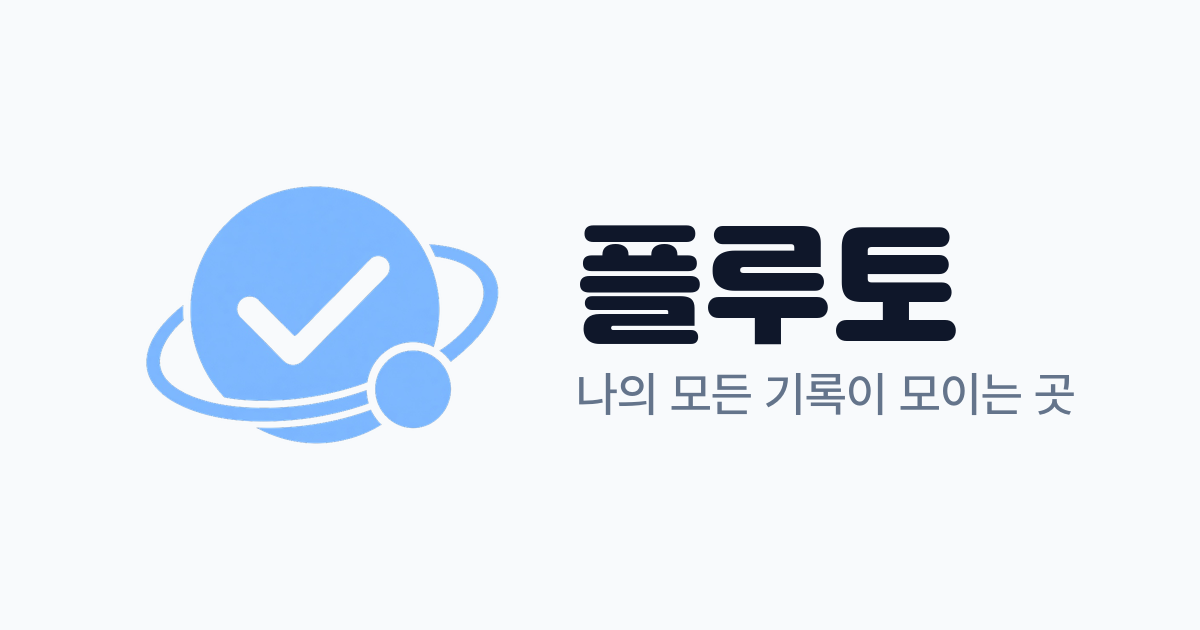
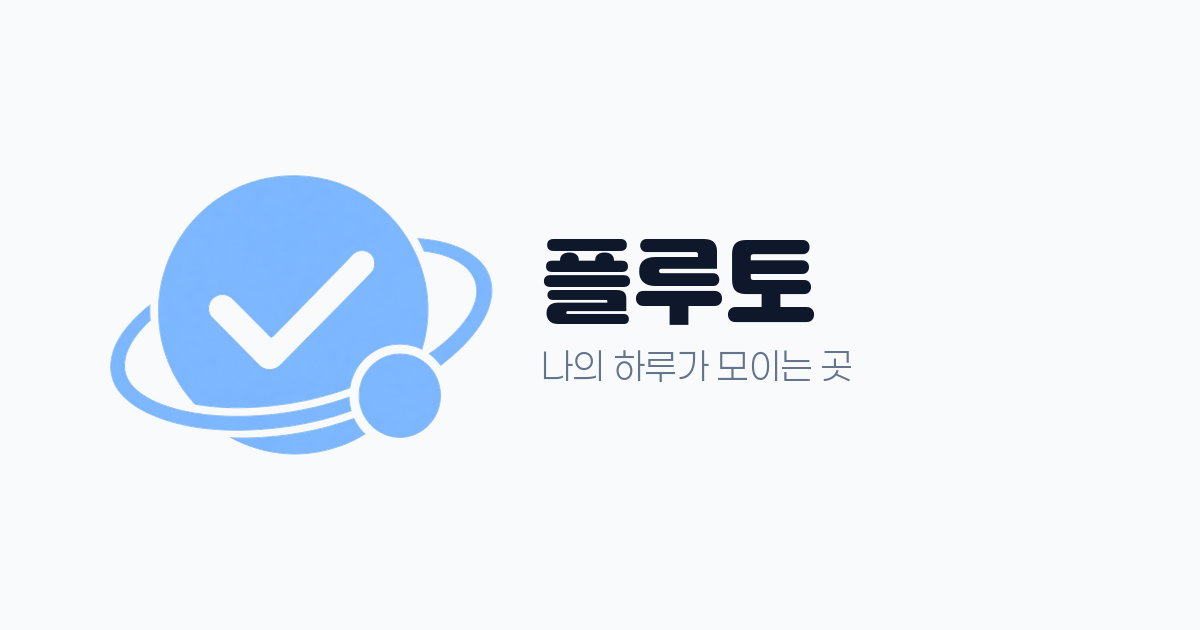
feat: 친구 아이디 제한과 웹 소개 문구를 변경

Changed region(s): [[0.0925, 0.2714, 0.8942, 0.7238], [0.3083, 0.3317, 0.3392, 0.3619]]

diff --git a/lib/presentation/screens/friends/friends_screen.dart b/lib/presentation/screens/friends/friends_screen.dart
@@ -175,7 +175,6 @@ class _AddFriendSheetState extends State<AddFriendSheet> {
           children: [
             TextField(
               controller: _code,
-              autofocus: true,
               maxLength: 32,
               inputFormatters: _codeFormatters,
               textInputAction: TextInputAction.send,
@@ -603,7 +602,17 @@ class _FriendsScreenState extends State<FriendsScreen> {
     unawaited(_saveMyCode());
   }
 
+  void _toastCodeCooldownIfLocked() {
+    final profile = _service.profile.value;
+    if (profile == null || profile.canChangeCode) return;
+    final days = profile.cooldownDays < 1 ? 1 : profile.cooldownDays;
+    _toast(AppStrings.friendsCodeCooldown(days));
+  }
+
   void _syncCode(FriendProfile? profile) {
+    if (profile != null && !profile.canChangeCode && _codeFocus.hasFocus) {
+      _codeFocus.unfocus();
+    }
     if (_codeFocus.hasFocus) return;
     final code = profile?.friendCode.trim() ?? '';
     if (_myCode.text == code) return;
@@ -843,34 +852,54 @@ class _FriendsScreenState extends State<FriendsScreen> {
                           Row(
                             children: [
                               Expanded(
-                                child: TextField(
-                                  controller: _myCode,
-                                  focusNode: _codeFocus,
-                                  maxLength: 32,
-                                  inputFormatters: _codeFormatters,
-                                  textInputAction: TextInputAction.done,
-                                  onSubmitted: (_) => _saveMyCode(),
-                                  style: TextStyle(
-                                    fontFamily: AppFonts.of(context),
-                                    fontSize: 16,
-                                    color: colors.text,
-                                  ),
-                                  decoration: InputDecoration(
-                                    hintText: AppStrings.friendsCodeEditHint,
-                                    hintStyle: TextStyle(
-                                      fontFamily: AppFonts.of(context),
-                                      color: colors.hint,
-                                    ),
-                                    border: InputBorder.none,
-                                    counterText: '',
-                                    isDense: true,
-                                    contentPadding: const EdgeInsets.fromLTRB(
-                                      0,
-                                      4,
-                                      0,
-                                      8,
-                                    ),
-                                  ),
+                                child: Builder(
+                                  builder: (context) {
+                                    final locked = profile != null &&
+                                        !profile.canChangeCode;
+                                    return GestureDetector(
+                                      behavior: HitTestBehavior.opaque,
+                                      onTap: locked
+                                          ? _toastCodeCooldownIfLocked
+                                          : null,
+                                      child: AbsorbPointer(
+                                        absorbing: locked,
+                                        child: TextField(
+                                          controller: _myCode,
+                                          focusNode: _codeFocus,
+                                          readOnly: locked,
+                                          canRequestFocus: !locked,
+                                          enableInteractiveSelection: !locked,
+                                          maxLength: 32,
+                                          inputFormatters: _codeFormatters,
+                                          textInputAction: TextInputAction.done,
+                                          onSubmitted: (_) => _saveMyCode(),
+                                          style: TextStyle(
+                                            fontFamily: AppFonts.of(context),
+                                            fontSize: 16,
+                                            color: colors.text,
+                                          ),
+                                          decoration: InputDecoration(
+                                            hintText:
+                                                AppStrings.friendsCodeEditHint,
+                                            hintStyle: TextStyle(
+                                              fontFamily: AppFonts.of(context),
+                                              color: colors.hint,
+                                            ),
+                                            border: InputBorder.none,
+                                            counterText: '',
+                                            isDense: true,
+                                            contentPadding:
+                                                const EdgeInsets.fromLTRB(
+                                              0,
+                                              4,
+                                              0,
+                                              8,
+                                            ),
+                                          ),
+                                        ),
+                                      ),
+                                    );
+                                  },
                                 ),
                               ),
                               PressBounce(
@@ -964,10 +993,16 @@ class _FriendsScreenState extends State<FriendsScreen> {
 
   Future<void> _saveMyCode() async {
     final code = _myCode.text.trim();
-    final current = _service.profile.value?.friendCode.trim() ?? '';
+    final profile = _service.profile.value;
+    final current = profile?.friendCode.trim() ?? '';
     if (_savingCode || code == current) return;
     if (code.isEmpty) {
       _myCode.text = current;
+      return;
+    }
+    if (profile != null && !profile.canChangeCode) {
+      _myCode.text = current;
+      _toastCodeCooldownIfLocked();
       return;
     }
     _savingCode = true;

diff --git a/web/index.html b/web/index.html
@@ -22,19 +22,19 @@
   <meta name="theme-color" content="#F8FAFC">
   <meta name="theme-color" content="#F8FAFC" media="(prefers-color-scheme: light)">
   <meta name="theme-color" content="#0B1220" media="(prefers-color-scheme: dark)">
-  <meta name="description" content="나의 모든 기록이 모이는 곳">
+  <meta name="description" content="나의 하루가 모이는 캘린더">
   <meta property="og:type" content="website">
   <meta property="og:site_name" content="플루토">
   <meta property="og:title" content="플루토">
-  <meta property="og:description" content="나의 모든 기록이 모이는 곳">
+  <meta property="og:description" content="나의 하루가 모이는 캘린더">
   <meta property="og:url" content="https://pluto.day/">
-  <meta property="og:image" content="https://pluto.day/og.png?v=3">
+  <meta property="og:image" content="https://pluto.day/og.png?v=5">
   <meta property="og:image:width" content="1200">
   <meta property="og:image:height" content="630">
   <meta name="twitter:card" content="summary_large_image">
   <meta name="twitter:title" content="플루토">
-  <meta name="twitter:description" content="나의 모든 기록이 모이는 곳">
-  <meta name="twitter:image" content="https://pluto.day/og.png?v=3">
+  <meta name="twitter:description" content="나의 하루가 모이는 캘린더">
+  <meta name="twitter:image" content="https://pluto.day/og.png?v=5">
 
   <!-- iOS meta tags & icons -->
   <meta name="mobile-web-app-capable" content="yes">
@@ -43,8 +43,8 @@
   <link rel="apple-touch-icon" href="icons/Icon-192.png">
 
   <!-- Favicon -->
-  <link rel="icon" type="image/svg+xml" href="favicon.svg?v=4"/>
-  <link rel="icon" type="image/png" sizes="64x64" href="favicon.png?v=4"/>
+  <link rel="icon" type="image/svg+xml" href="favicon.svg?v=5"/>
+  <link rel="icon" type="image/png" sizes="96x96" href="favicon.png?v=5"/>
 
   <title>플루토</title>
   <link rel="manifest" href="manifest.json">

diff --git a/web/about/index.html b/web/about/index.html
@@ -3,16 +3,16 @@
 <head>
   <meta charset="UTF-8">
   <meta name="viewport" content="width=device-width, initial-scale=1.0">
-  <title>플루토 · 나의 모든 기록이 모이는 곳</title>
+  <title>플루토 · 나의 하루가 모이는 곳</title>
   <meta name="description" content="플루토는 할 일, 일정, 일기, 가계부, 메모를 한곳에서 보는 캘린더입니다. 로그인 없이 기기에서 쓸 수 있고, 로그인하면 여러 기기에서 기록을 맞출 수 있습니다.">
   <meta property="og:type" content="website">
   <meta property="og:site_name" content="플루토">
   <meta property="og:title" content="플루토">
-  <meta property="og:description" content="나의 모든 기록이 모이는 곳">
+  <meta property="og:description" content="나의 하루가 모이는 캘린더">
   <meta property="og:url" content="https://pluto.day/about">
-  <meta property="og:image" content="https://pluto.day/og.png?v=3">
-  <link rel="icon" type="image/svg+xml" href="../favicon.svg?v=4">
-  <link rel="icon" type="image/png" sizes="64x64" href="../favicon.png?v=4">
+  <meta property="og:image" content="https://pluto.day/og.png?v=5">
+  <link rel="icon" type="image/svg+xml" href="../favicon.svg?v=5">
+  <link rel="icon" type="image/png" sizes="96x96" href="../favicon.png?v=5">
   <style>
     @font-face {
       font-family: Jalnan;
@@ -157,7 +157,7 @@
       </span>
     </header>
 
-    <h1>나의 모든 기록이<br>모이는 곳</h1>
+    <h1>나의 하루가<br>모이는 곳</h1>
     <p class="lead">할 일 · 일정 · 일기 · 가계부 · 메모를 한 캘린더에서</p>
     <p class="purpose">플루토는 하루의 할 일과 일정, 일기와 가계부, 메모를 한곳에서 보고 기록하는 캘린더 앱입니다. 로그인하지 않아도 이 페이지에서 앱이 무엇을 하는지 볼 수 있습니다. 앱을 열려면 아래에서 시작하면 됩니다.</p>
 

diff --git a/lib/data/datasources/friend_service.dart b/lib/data/datasources/friend_service.dart
@@ -478,6 +478,9 @@ class FriendService {
     });
     final next = FriendProfile.fromMap(data);
     profile.value = next;
+    _sessionUid = _uid;
+    _sessionProfile = next;
+    await _writeCachedProfile();
     return next;
   }
 
@@ -981,6 +984,20 @@ class FriendService {
     ];
   }
 
+  int _codeCooldownDays(Object error) {
+    final fromProfile = profile.value?.cooldownDays ?? 0;
+    if (fromProfile > 0) return fromProfile;
+    if (error is FirebaseFunctionsException) {
+      final details = error.details;
+      if (details is Map) {
+        final at = (details['nextChangeAt'] as num?)?.toInt() ?? 0;
+        final left = at - DateTime.now().millisecondsSinceEpoch;
+        if (left > 0) return (left / 86400000).ceil();
+      }
+    }
+    return 30;
+  }
+
   String messageOf(Object error) {
     final code = error is FriendException
         ? error.code
@@ -997,7 +1014,7 @@ class FriendService {
       'bad-name' => AppStrings.friendsNameBad,
       'bad-photo' => AppStrings.friendsPhotoTooBig,
       'needs-code' => AppStrings.friendsCodeNeed,
-      'code-cooldown' => AppStrings.friendsCodeCooldown(30),
+      'code-cooldown' => AppStrings.friendsCodeCooldown(_codeCooldownDays(error)),
       'rate-limited' || 'resource-exhausted' => AppStrings.friendsRateLimited,
       'unauthenticated' || 'login-required' => AppStrings.friendsNeedLogin,
       _ => AppStrings.friendsFailed,

diff --git a/functions/friends.js b/functions/friends.js
@@ -20,6 +20,8 @@ function requireUid(request) {
   return uid;
 }
 
+const CODE_COOLDOWN_MS = 30 * 24 * 60 * 60 * 1000;
+
 const RESERVED_CODES = new Set([
   "pluto",
   "플루토",
@@ -141,7 +143,7 @@ function toClientProfile(uid, data, displayName) {
     suggestedCode: suggestCode(name),
     needsCode: !usable,
     codeChangedAt: changedAt,
-    nextChangeAt: 0,
+    nextChangeAt: usable && changedAt ? changedAt + CODE_COOLDOWN_MS : 0,
     photoURL: String(data.photoURL || ""),
   };
 }
@@ -200,6 +202,14 @@ async function claimFriendCode(uid, rawCode, hint) {
   if (hadUsable && current === code) {
     return toClientProfile(uid, data, displayName);
   }
+  if (hadUsable) {
+    const changedAt = Number(data.friendCodeChangedAt) || 0;
+    if (changedAt && now < changedAt + CODE_COOLDOWN_MS) {
+      throw new HttpsError("failed-precondition", "code-cooldown", {
+        nextChangeAt: changedAt + CODE_COOLDOWN_MS,
+      });
+    }
+  }
   await db().runTransaction(async (tx) => {
     const taken = await tx.get(db().collection("friend_codes").doc(code));
     if (taken.exists && taken.data()?.uid !== uid) {
@@ -217,6 +227,7 @@ async function claimFriendCode(uid, rawCode, hint) {
     }
   });
   return toClientProfile(uid, {
+    ...data,
     friendCode: code,
     friendCodeChangedAt: now,
   }, displayName);

diff --git a/web/privacy/index.html b/web/privacy/index.html
@@ -10,9 +10,9 @@
   <meta property="og:title" content="개인정보처리방침 · 플루토">
   <meta property="og:description" content="플루토가 개인정보를 어떻게 다루는지 알려 드립니다.">
   <meta property="og:url" content="https://pluto.day/privacy">
-  <meta property="og:image" content="https://pluto.day/og.png?v=3">
-  <link rel="icon" type="image/svg+xml" href="../favicon.svg?v=4">
-  <link rel="icon" type="image/png" sizes="64x64" href="../favicon.png?v=4">
+  <meta property="og:image" content="https://pluto.day/og.png?v=5">
+  <link rel="icon" type="image/svg+xml" href="../favicon.svg?v=5">
+  <link rel="icon" type="image/png" sizes="96x96" href="../favicon.png?v=5">
   <style>
     @font-face {
       font-family: Jalnan;

diff --git a/web/terms/index.html b/web/terms/index.html
@@ -10,9 +10,9 @@
   <meta property="og:title" content="이용약관 · 플루토">
   <meta property="og:description" content="플루토 앱과 웹을 이용할 때 적용되는 약관입니다.">
   <meta property="og:url" content="https://pluto.day/terms">
-  <meta property="og:image" content="https://pluto.day/og.png?v=3">
-  <link rel="icon" type="image/svg+xml" href="../favicon.svg?v=4">
-  <link rel="icon" type="image/png" sizes="64x64" href="../favicon.png?v=4">
+  <meta property="og:image" content="https://pluto.day/og.png?v=5">
+  <link rel="icon" type="image/svg+xml" href="../favicon.svg?v=5">
+  <link rel="icon" type="image/png" sizes="96x96" href="../favicon.png?v=5">
   <style>
     @font-face {
       font-family: Jalnan;

diff --git a/lib/core/constants/app_strings.dart b/lib/core/constants/app_strings.dart
@@ -226,7 +226,7 @@ class AppStrings {
   static const featureIntroFriendAccept = '수락';
   static const featureIntroFriendDone = '친구가 되었어요';
   static const webLoginBrand = '플루토';
-  static const webLoginTagline = '나의 모든 기록이 모이는 곳';
+  static const webLoginTagline = '나의 하루가 모이는 곳';
   static const webLoginPcLabel = 'PC버전';
   static const accountLoginWebUrl = 'pluto.day';
   static const accountLoginSocialHint = '소셜 계정으로 로그인';

diff --git a/lib/domain/entities/friend_profile.dart b/lib/domain/entities/friend_profile.dart
@@ -54,7 +54,11 @@ class FriendProfile {
     return friendCode;
   }
 
-  bool get canChangeCode => true;
+  bool get canChangeCode {
+    if (needsCode || friendCode.isEmpty) return true;
+    if (nextChangeAt <= 0) return true;
+    return DateTime.now().millisecondsSinceEpoch >= nextChangeAt;
+  }
 
   int get cooldownDays {
     final left = nextChangeAt - DateTime.now().millisecondsSinceEpoch;

diff --git a/lib/presentation/screens/friends/friend_calendar_screen.dart b/lib/presentation/screens/friends/friend_calendar_screen.dart
@@ -266,7 +266,6 @@ class _FriendCalendarScreenState extends State<FriendCalendarScreen> {
                   style: TextStyle(
                     fontFamily: AppFonts.of(context),
                     fontSize: 16,
-                    fontWeight: FontWeight.w800,
                     color: colors.text,
                   ),
                 ),
